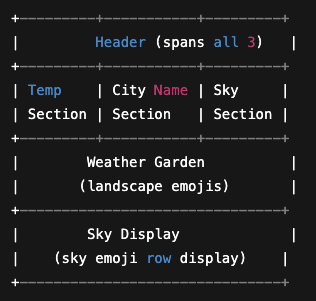
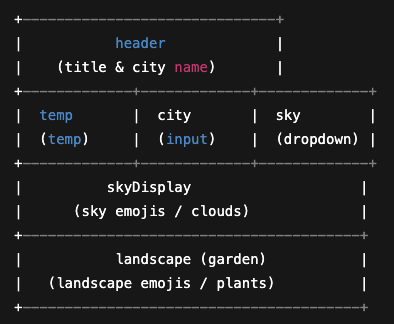
Updates sky display order, adds new wireframe

diff --git a/styles/index.css b/styles/index.css
@@ -13,8 +13,8 @@ body {
   display: grid;
   grid-template-areas:
     "temp city sky"
-    "landscape landscape landscape"
-    "skyDisplay skyDisplay skyDisplay";
+    "skyDisplay skyDisplay skyDisplay"
+    "landscape landscape landscape";
   grid-template-columns: 1fr 1fr 1fr;
   grid-template-rows: auto auto auto;
   gap: 1rem;
